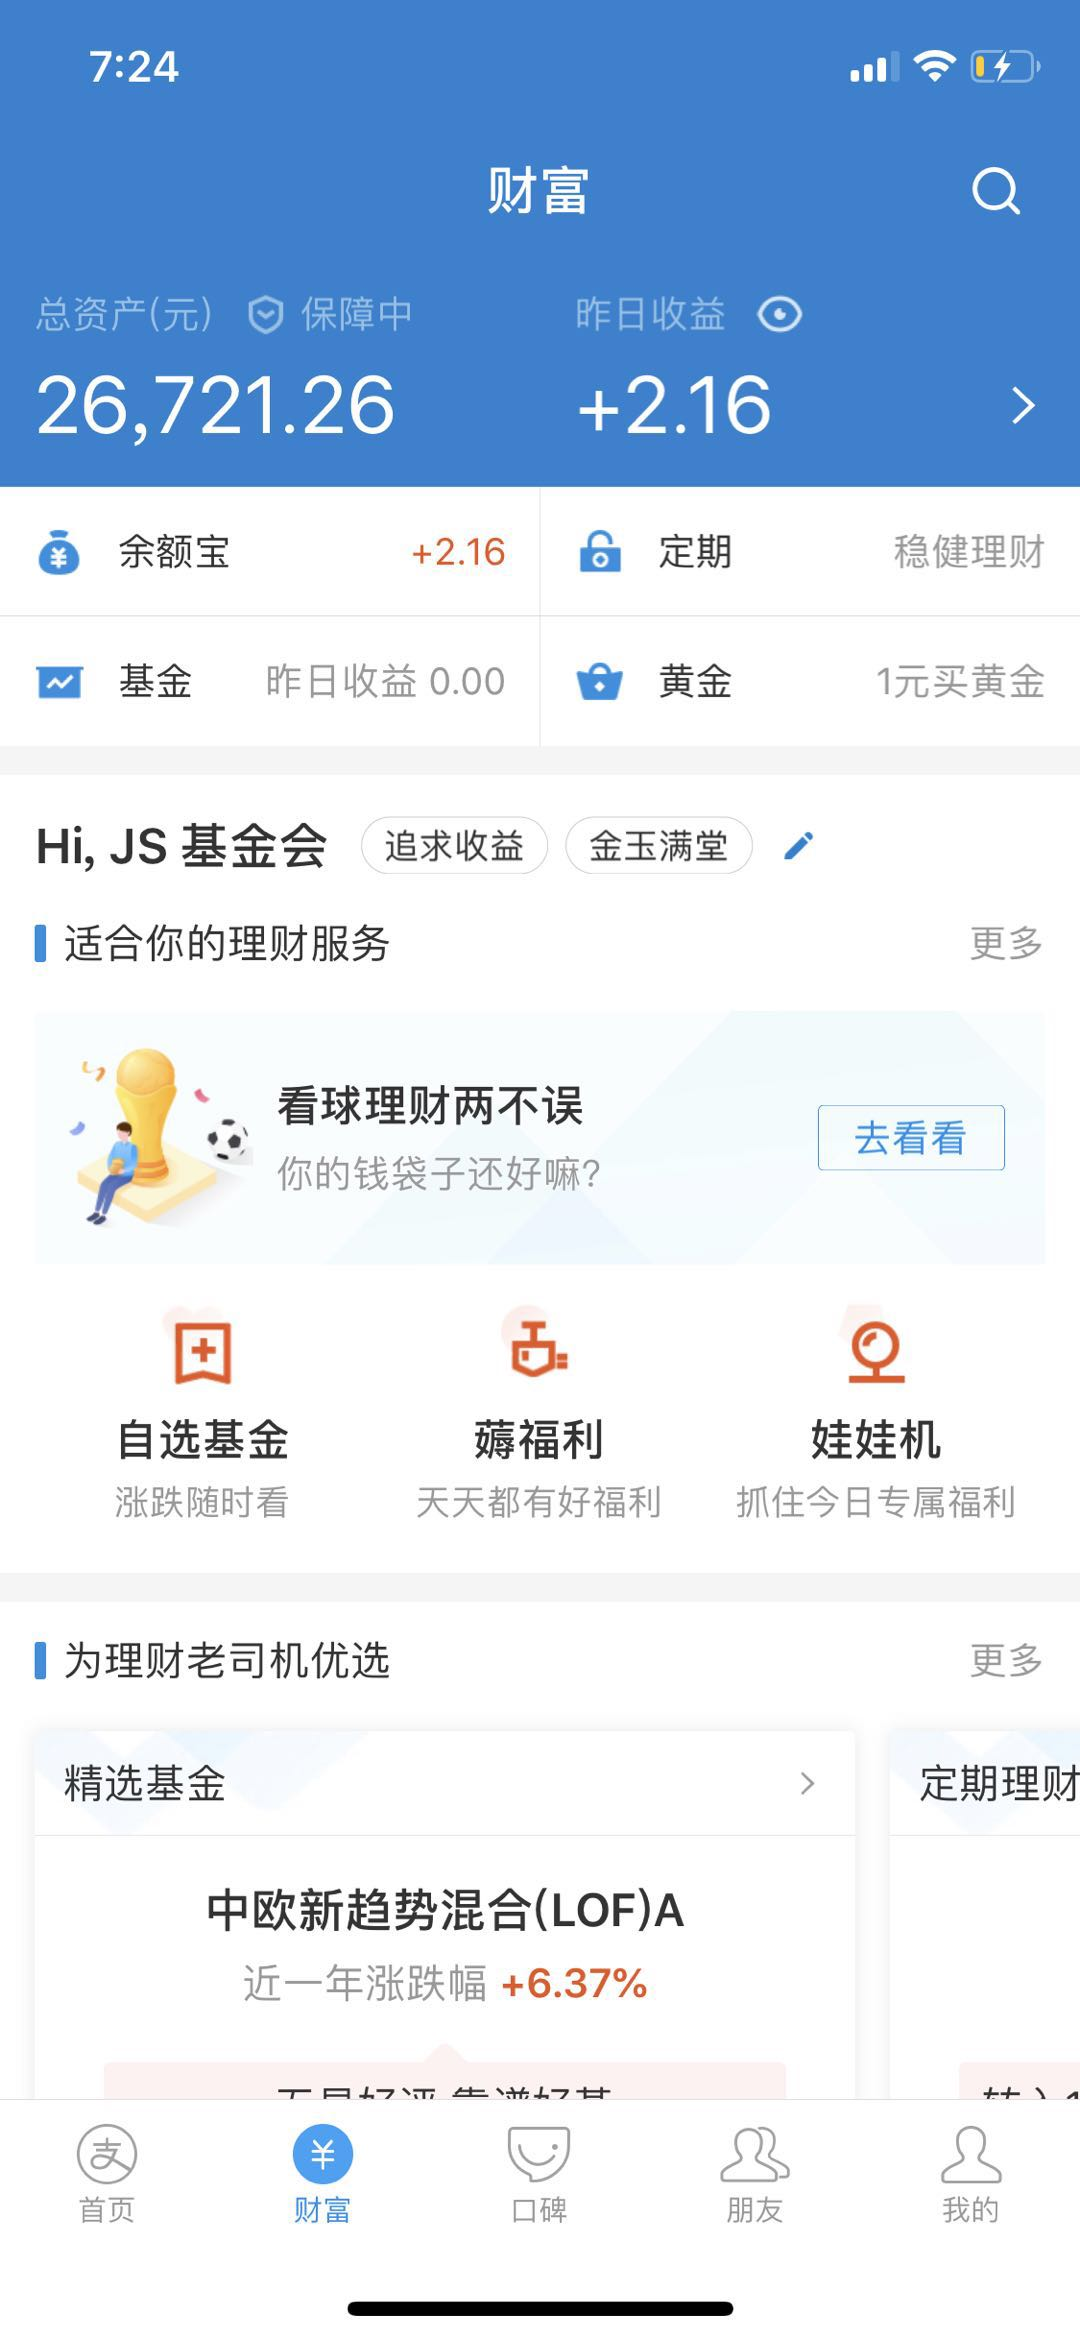
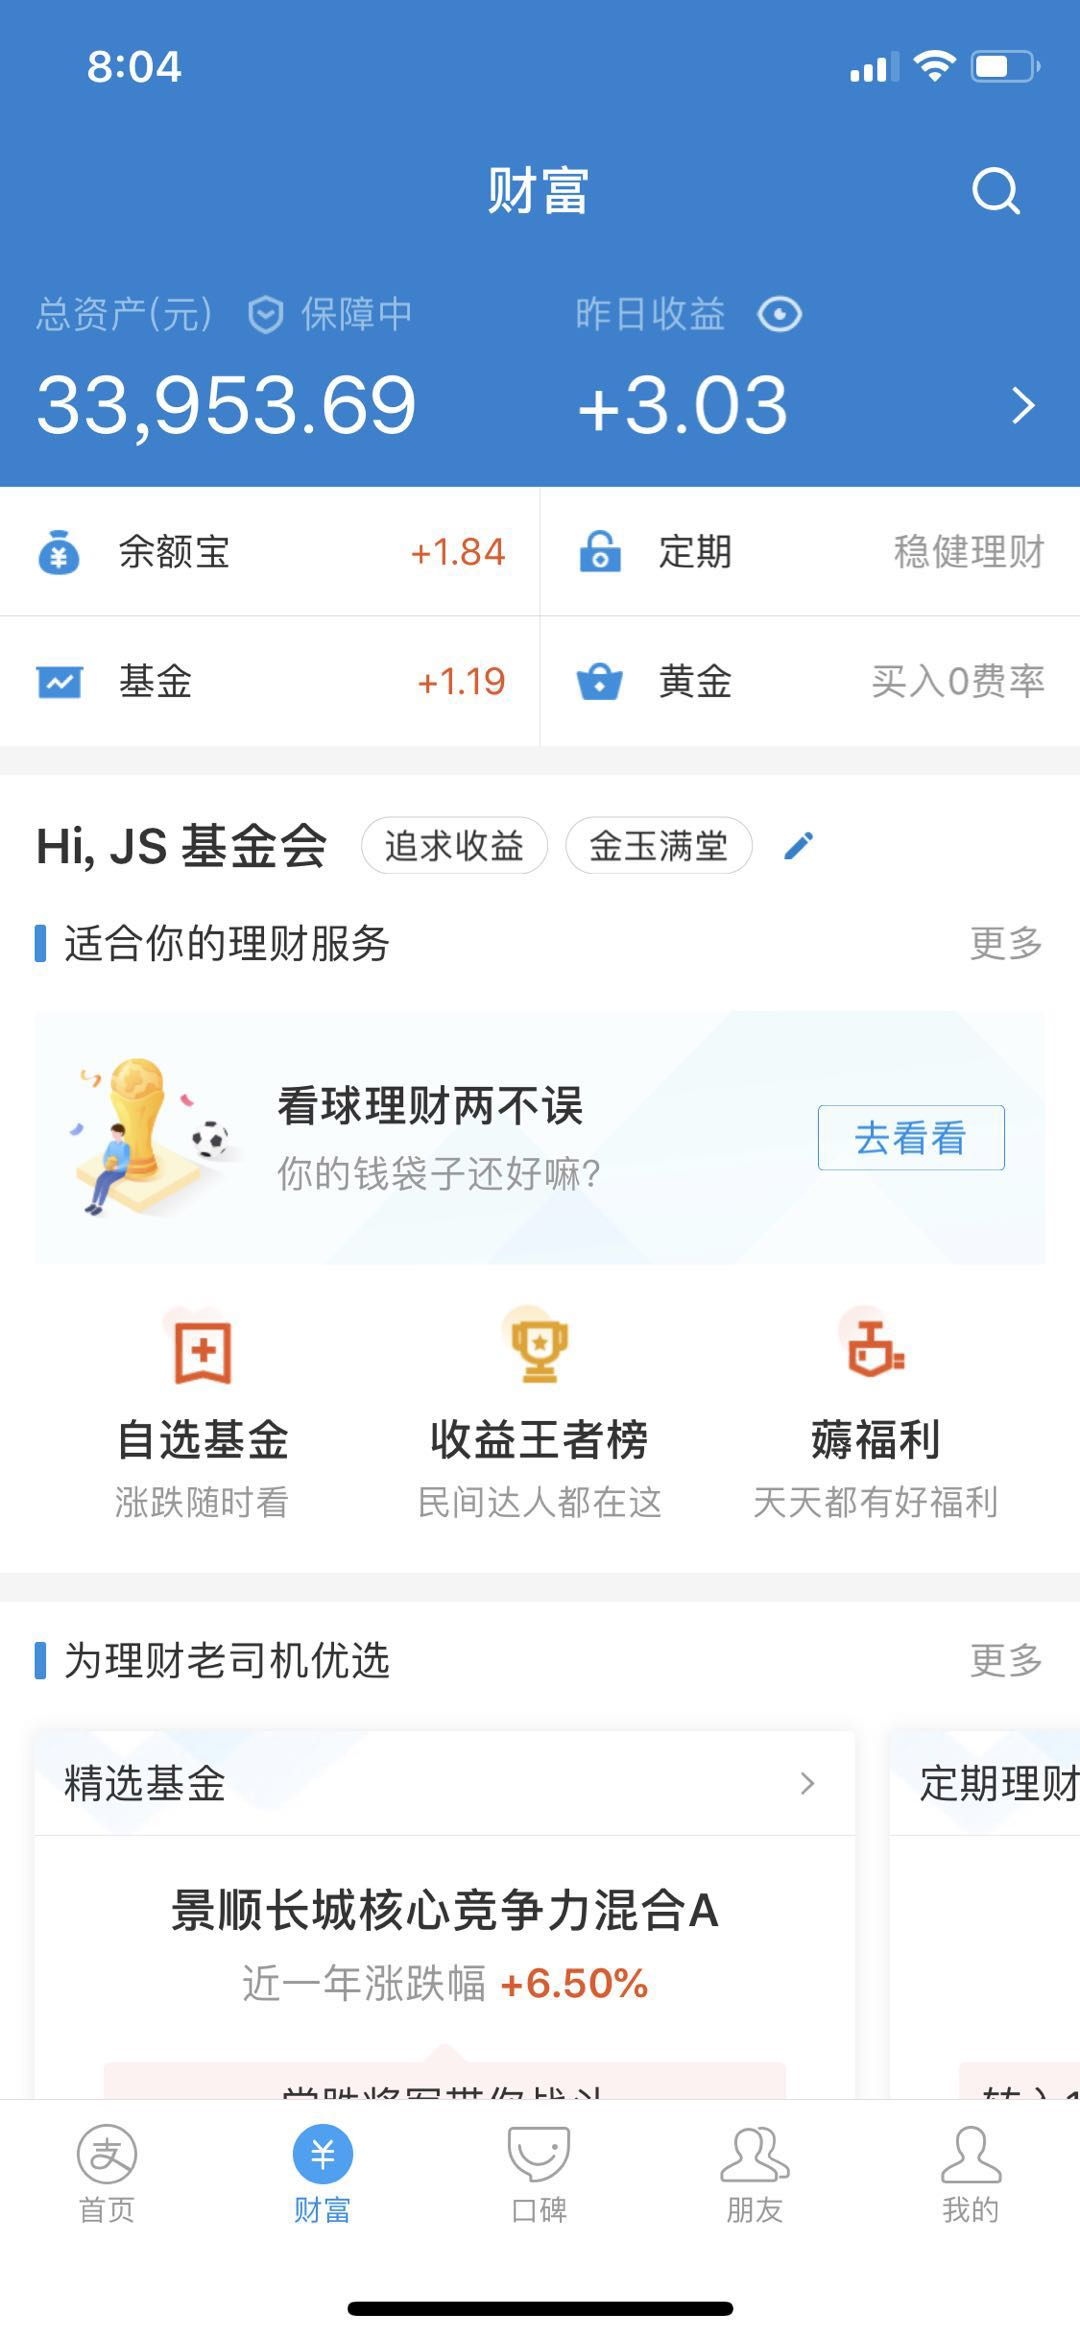
income: 20180627 杭 NodeParty 第六期讲师团 赞助 7226.40 元

diff --git a/README.md b/README.md
@@ -1,6 +1,6 @@
 #  NodeParty 开源基金会运作草案 
 
-![](https://img.shields.io/badge/余额-26721.26%20元-green.svg) ![](https://img.shields.io/badge/赞助笔数-40%20笔-green.svg) ![](https://img.shields.io/badge/待入账-0.00%20元-blue.svg)
+![](https://img.shields.io/badge/余额-33953.69%20元-green.svg) ![](https://img.shields.io/badge/赞助笔数-40%20笔-green.svg) ![](https://img.shields.io/badge/待入账-7000.00%20元-blue.svg)
 
 ## 组织介绍
 
@@ -127,26 +127,28 @@ Commit Message 需按照此格式：
 | @wangerniu | 200.00 | 2017-08-15 | 个人赞助 | [#34](https://github.com/Hangzhou-Node-Party/JS-OpenSource-Foundation/issues/34) |
 | @Sirormy | 255.00 | 2017-08-15 | 个人赞助 | [#35](https://github.com/Hangzhou-Node-Party/JS-OpenSource-Foundation/issues/35) |
 | @DevinXian | 200.00 | 2017-08-15 | 个人赞助 | [#36](https://github.com/Hangzhou-Node-Party/JS-OpenSource-Foundation/issues/36) |
-| @杭NodeParty讲师团 | 2430.00 | 2017-08-15 | 组织赞助 | [#37](https://github.com/Hangzhou-Node-Party/JS-OpenSource-Foundation/issues/37) |
+| @杭 NodeParty 讲师团 | 2430.00 | 2017-08-15 | 组织赞助 | [#37](https://github.com/Hangzhou-Node-Party/JS-OpenSource-Foundation/issues/37) |
 | @m31271n | 110.00 | 2017-08-21 | 个人赞助 | [#39](https://github.com/Hangzhou-Node-Party/JS-OpenSource-Foundation/issues/39) |
 | @SunilWang | 288.88 | 2017-08-21 | 个人赞助 | [#38](https://github.com/Hangzhou-Node-Party/JS-OpenSource-Foundation/issues/38) |
 | @xinyu198736 | 234.00 | 2017-08-30 | 个人赞助 | [#41](https://github.com/Hangzhou-Node-Party/JS-OpenSource-Foundation/issues/41) |
-| @杭NodeParty讲师团 | 3234.00 | 2017-11-23 | 组织赞助 | [#45](https://github.com/Hangzhou-Node-Party/JS-OpenSource-Foundation/issues/45) |
+| @杭 NodeParty 讲师团 | 3234.00 | 2017-11-23 | 组织赞助 | [#45](https://github.com/Hangzhou-Node-Party/JS-OpenSource-Foundation/issues/45) |
 | @Keith-CY | 300.00 | 2017-11-23 | 个人赞助 | [#44](https://github.com/Hangzhou-Node-Party/JS-OpenSource-Foundation/issues/44) |
 | @Coding.net | 3000.00 | 2017-11-24 | 企业赞助 | [#46](https://github.com/Hangzhou-Node-Party/JS-OpenSource-Foundation/issues/46) |
 | @天宇 | 102.40 | 2018-06-11 | 个人赞助 | [#49](https://github.com/Hangzhou-Node-Party/JS-OpenSource-Foundation/issues/49) |
 | @shitiven | 256.00 | 2018-06-12 | 个人赞助 | [#50](https://github.com/Hangzhou-Node-Party/JS-OpenSource-Foundation/issues/50) |
 | @100offer | 3000.00 | 2018-06-12 | 企业赞助 | [#51](https://github.com/Hangzhou-Node-Party/JS-OpenSource-Foundation/issues/51) |
 | @lbj96347 | 800.00 | 2018-06-12 | 组织赞助 | [#52](https://github.com/Hangzhou-Node-Party/JS-OpenSource-Foundation/issues/52) |
+| @杭 NodeParty 第六期讲师团 | 7226.40 | 2018-06-27 | 组织赞助 | [#54](https://github.com/Hangzhou-Node-Party/JS-OpenSource-Foundation/issues/54) |
 
 感谢以下企业的赞助：
 
-![](https://img.shields.io/badge/100offer-3000元-green.svg)
+![](https://img.shields.io/badge/100offer-6000元-green.svg)
 ![](https://img.shields.io/badge/又拍云-3000元-green.svg)
-![](https://img.shields.io/badge/Coding.net-3000元-green.svg)
+![](https://img.shields.io/badge/Coding.net-5000元-green.svg)
 ![](https://img.shields.io/badge/掘金-2000元-green.svg)
 ![](https://img.shields.io/badge/轻山科技-2000元-green.svg)
 
+[<img src="./img/shulan_logo.jpg" width=150/>](https://www.dtwave.com)
 [<img src="./img/juejin_logo.png" width=150/>](https://juejin.im)
 [<img src="./img/100offer_logo.jpg" width=150/>](https://100offer.com/?utm_source=NodeParty&utm_medium=display&utm_campaign=NodeParty&campaign_code=NodeParty)
 [<img src="./img/coding.png" width=150/>](https://coding.net)
@@ -186,8 +188,8 @@ Commit Message 需按照此格式：
 <!-- money start -->
 | 款项 | 金额 |
 |------|------|
-| **总额** | 26721.26 元 |
-| **待入账** | 0.00 元 |
+| **总额** | 33953.69 元 |
+| **待入账** | 7000.00 元 |
 <!-- money end -->
 
 ### 余额截图
